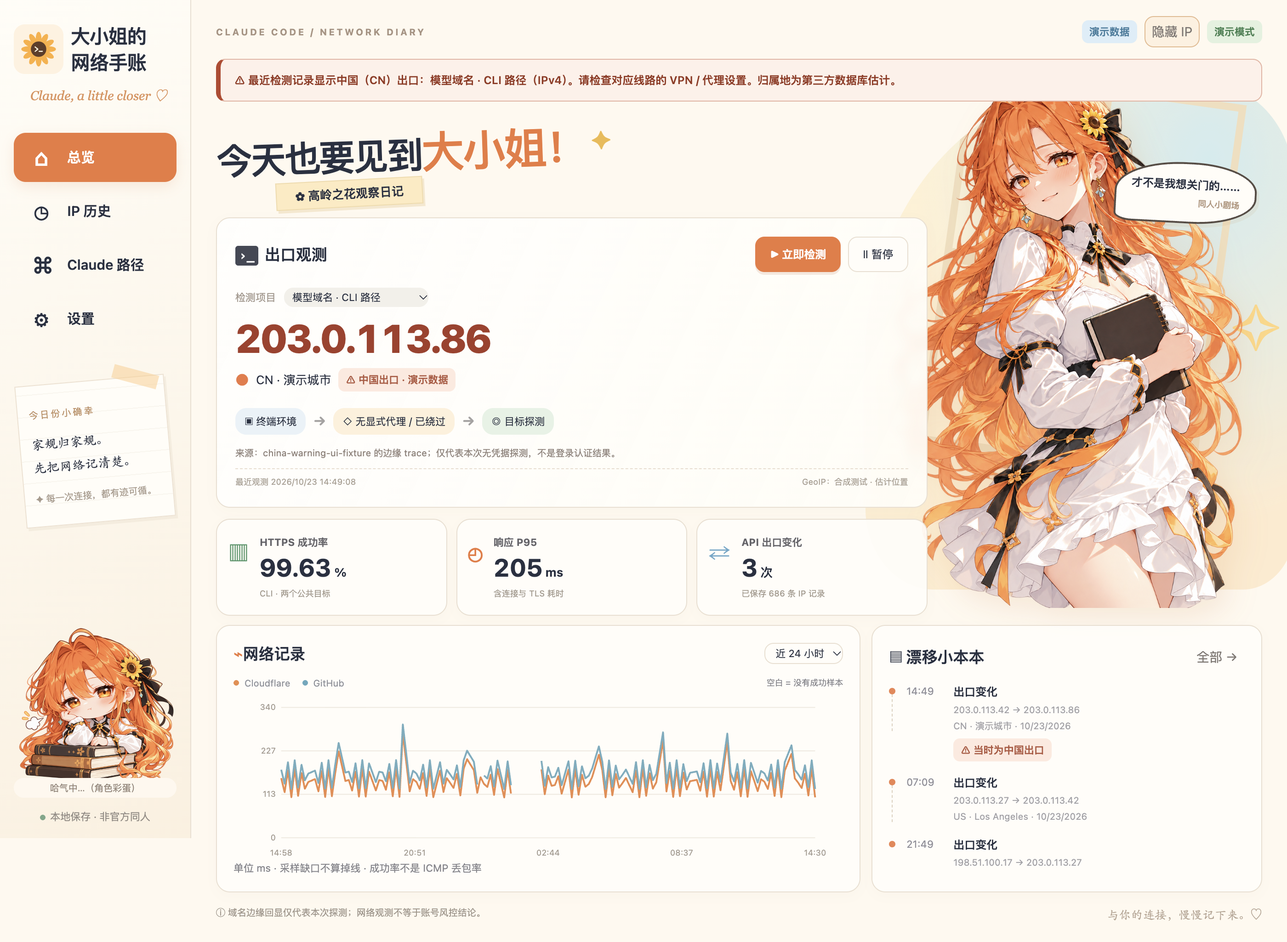
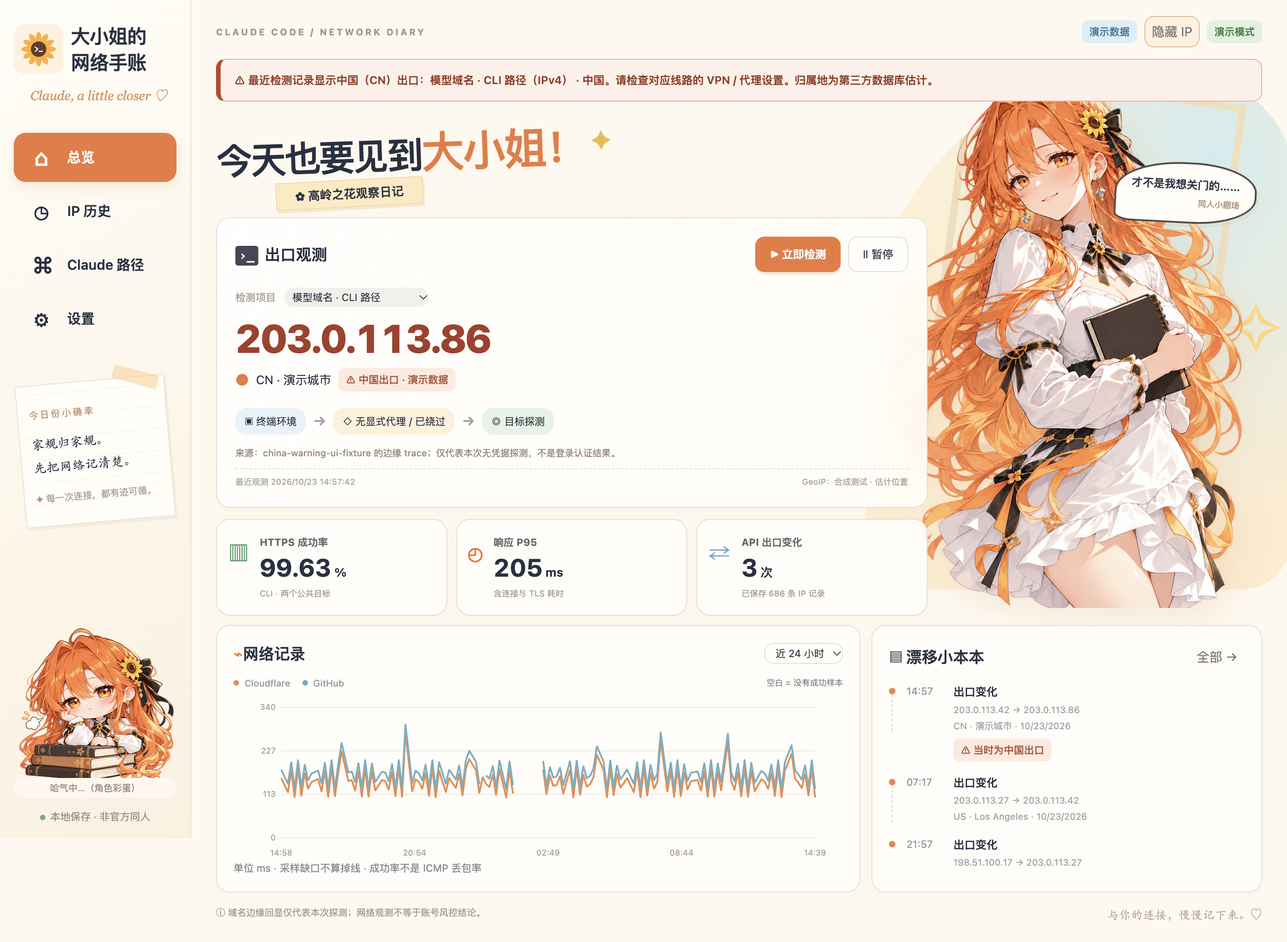
Include Hong Kong egress in region warnings

Changed region(s): [[0.2175, 0.7805, 0.6214, 0.8429], [0.435, 0.0624, 0.7146, 0.0937]]

diff --git a/docs/设计与验证.html b/docs/设计与验证.html
@@ -1,1 +1,1 @@
-<!doctype html><html lang="zh-CN"><meta charset="utf-8"><title>大小姐的网络手账 · 设计与验证</title><style>body{max-width:1000px;margin:60px auto;background:#f7f3ec;color:#332b26;font:16px/1.8 system-ui}article{background:#fffaf3;padding:28px;border:1px solid #dfd6ca;border-radius:18px;margin:24px 0}img{width:100%}code{background:#efe6db;padding:3px 6px}a{color:#a3523a}</style><h1>大小姐的网络手账</h1><p>原创二次元大小姐主题 · Claude Code 网络路径观察 · 独立非官方应用</p><article id="design"><h2>设计基线</h2><p>左侧导航与托盘常驻；主区域展示当前出口、稳定性、IP 漂移时间线；右侧原创成年大小姐插画。奶油纸色、陶土橘、深咖文字和低饱和青绿状态色。图表与数据有独立语义和可访问标签。</p><p>CLI 网络环境与系统/浏览器路径分开展示。第三方回显仅说明该探测请求出口；真实认证/模型服务可能按域名走另一线路。401/403 是 HTTP 响应，不等于登录成功或账户可用。</p></article><article id="execution-ledger"><h2>执行台账</h2><p>当前公开版本：<a href="https://github.com/Be1Human/claude-ojousama-network/releases/tag/v0.1.1">v0.1.1</a>，中国出口警告见<a href="#china-egress-warning">NW-03</a>；保留下方各阶段原始记录。</p><p>NW-02 · 负责人：主代理 · 阶段完成 · 2026-10-23T22:48:49+08:00。V2二次元界面已实现，v0.1.0已公开发布；Mac本机已安装并继续采样，旧数据保留。验收范围：21项逻辑/网络测试、三平台源应用与打包后界面测试、本机历史迁移与采样。实体Windows、真实重启/休眠及多日稳定性尚未验收。</p></article><article><h2>视觉方案修订</h2><p>  NW-02 视觉修订（北京时间 2026-10-23T20:43:33+08:00）：用户认为初版过于正经且文案用梗不准，要求再生成明显二次元风格并先搜索社区。已检索LINUX DO原帖、B站作者/二创条目和贴吧话题；把橙发、温柔聪明、有距离感、严格原生家庭及哈气作为同人语境，不将社区猜测当作真实封号政策。V2采用橙发白裙的原创成年角色、赛璐璐动画立绘、漫画气泡、少量表情贴纸，真实测量与同人文案明确分开。保留V1为历史方案。来源：https://linux.do/t/topic/3010391 、https://linux.do/t/topic/2990653 、https://www.bilibili.com/video/BV1wtaH6jEk8/ 。 </p><p>初版：<a href="assets/concept.png">方案一</a>；V2进一步突出动画线稿/赛璐璐、橙发白裙与漫画表情。不复用第三方作者插画。</p></article><article id="implementation"><h2>NW-02 实现与验证 · 2026-10-23T21:16:27+08:00</h2><p>负责人：主代理。状态：进行中；macOS 本机实现和源应用验证阶段完成，公开发布与跨平台 CI 待验证。</p><p>技术栈：Electron 45 / Node 24 / 内置 SQLite；独立 utilityProcess，托盘单实例、关闭隐藏、可选启动项；无 Python 依赖。5 类观测路径、IP/GeoIP 历史、两目标 HTTPS 曲线、CSV、私有代理加密与终端环境白名单采集。</p><p>图稿顺序：<a href="assets/concept.png">V1 原方案</a> → <a href="assets/concept-v2.png">V2 二次元修订</a> → 下方真实应用演示截图。截图均仅含 RFC 5737 演示 IP，不是实测网络证明。</p><img src="assets/application-demo-v0.1.0.png" alt="本轮 Electron 实际窗口，全部为演示数据"><p>验证：<code>npm test</code> 核心逻辑；<code>npm run test:ui</code> Electron 导航、筛选、IP 隐藏、设置、暂停/继续、关闭到托盘与恢复已通过；<code>npm run test:live</code> 只保留脱敏结论：IPv4/认证和 API 域名 trace 成功、IPv6 DNS 失败按失败记录、GeoJS 回退成功、SQLite integrity_check=ok。没有登录或模型调用。</p><p>测试中发现并修复：ESM 顶层等待 app.whenReady 导致启动死锁；改为异步启动函数。代理失败不直连回退、IPv6 规范化、缺少目标的批次不算整条线路掉线。UI 操作在本项目 Electron 窗口内自动化执行，不依赖外部 app 的 AX。</p><p>下一步：公开仓库，macOS Apple Silicon / Intel、Windows x64 CI 构建和打包后 UI 测试，通过后发布。真实重启启动项、整夜运行和物理设备休眠仍不在当前验收范围。</p></article><article><h2>NW-02 首轮 CI 修复</h2><p>负责人主代理，进行中。macOS arm64 源应用/打包后 UI 与构建通过。Windows 首轮失败在测试清理钩子：先删目录再关闭 SQLite，Windows 文件锁返回 EPERM；已调整为先关闭数据库后删除测试临时目录。Mac 安装包发现继承的链接器签名未封装资源，改用明确的 ad-hoc 签名并添加完整性验证；这不等于 Apple 公证。CI 截图改为只上传测试实际生成的文件，避免误用仓库旧截图。</p></article><article><h2>NW-02 三平台回归与小屏修订</h2><p>2026-10-23，主代理，进行中。CI 39960308712 三平台逻辑/源应用/打包后窗口测试与构建全部通过。目视核查 Windows CI 截图时发现短窗口侧栏便签挤压底部头像，已在矮窗口隐藏装饰便签，保留导航、头像与本地存储提示；增加侧栏底部不越界的界面断言，再次构建验证此变更。</p></article><article><h2>NW-02 路径展示复核</h2><p>负责人主代理，进行中。最终复核修正概览流程图：NO_PROXY 命中时明确显示绕过显式代理；系统路由与系统浏览器近似不再沿用“终端环境”标签。新增对应测试，实际探测路由逻辑未改变。最终发布采用此修订并重新构建安装包。</p></article><article><h2>NW-02 Windows 演示初始化超时</h2><p>最终路径标签修订的 CI 39962272929：两种 Mac 架构通过，Windows 21项逻辑测试通过，但源应用等待演示首屏数据超时。此前同平台已有两轮成功。根据 Windows 单条 SQLite 写入耗时，演示种子的逐条事务是可能瓶颈；改为一次事务批量写入，并增加失败截图及只含演示状态的诊断，再复验。真实监测与既有数据未删除。</p></article><article><h2>NW-02 启动握手修正</h2><p>复核 Windows 随机启动超时同时发现一个时序缺口：主进程在 spawn 事件立即发送 init，而 ESM 后台模块可能尚未完成导入与监听注册。改为工作进程注册监听后发送 listening，主进程收到后再初始化；初始化异常明确上报并进入有限重启。批量演示事务与握手一并进入最终构建复验。</p></article><article><h2>NW-02 采样进程单实例</h2><p>启动和自动重启过程增加互斥标记及定时器清理；用户在后台尚未就绪时重复点击立即检测不会创建多个采样进程，旧工作进程消息也不会覆盖新状态。最终构建统一包含该修复。</p></article><article><h2>NW-02 发布准备 · 2026-10-23T22:40:10+08:00</h2><p>主代理，进行中。最终源码 b772882 的 CI 39969610010 三平台全部成功：21项逻辑/网络测试、源应用和打包后界面测试通过。Apple Silicon 首次构建发生依赖下载超时，重试成功；未修改源代码。Mac 本机安装已更新并保留原610条观测，签名完整性通过。因本地大文件下载缓慢，增加手动发布工作流：核对成功构建的来源提交与既有草稿、核对六个安装包和ZIP完整性、生成SHA-256并验证GitHub资产摘要后发布。软件实现不再改动。</p></article><article id="release-v010"><h2>NW-02 v0.1.0 公开交付 · 2026-10-23T22:48:49+08:00</h2><p>主代理，阶段完成；最终应用基准 <code>b772882f1e1ff4aa3cf03ed55cfaa1cb87afc255</code>。<a href="https://github.com/Be1Human/claude-ojousama-network/releases/tag/v0.1.0">公开下载</a>包含 macOS Apple Silicon / Intel 的DMG和ZIP、Windows x64的EXE与ZIP，共六个安装文件及SHA256SUMS.txt。<a href="https://github.com/Be1Human/claude-ojousama-network/actions/runs/39969610010">三平台构建与测试</a>和<a href="https://github.com/Be1Human/claude-ojousama-network/actions/runs/39972177947">发布校验</a>均成功。公开发布网页可读取；另通过CLI下载校验文件，与GitHub七个资产摘要逐项匹配。本地匿名API请求遇到TLS/403，未冒充成功，改以公开网页与授权API核验。</p><p>实际验证：每个平台21项逻辑/代理/数据库测试；源Electron与打包后UI检查包括导航、隐藏IP、历史筛选、设置、暂停恢复、关闭托盘和重新显示。Mac本机签名深度严格校验通过，更新后历史保留并继续增长。旧数据库只读导入，原文件保留。真实观测未上传；下方截图均为最终包运行的合成演示。</p><p><a href="assets/application-demo-v0.1.0.png">Mac Apple Silicon实际演示窗口</a> · <a href="assets/mac-intel-demo.png">Mac Intel CI实际窗口</a> · <a href="assets/windows-demo.png">Windows CI实际窗口</a></p><img src="assets/windows-demo.png" alt="Windows x64最终打包应用的CI实窗，全部为演示数据"><p>发布修复记录：六个文件首次已上传，但未发布草稿尚无公开tag，按tag调用REST校验返回404；改为从授权可见的发布列表定位草稿，再核对文件摘要后发布，第二轮成功。文档预览起初缺少Playwright独立Chromium，随后使用项目已含Electron预览；1280px窗口无横向溢出、图片加载与控制台检查通过。相对文件链接和锚点检查通过。</p><p>复现：<code>npm ci &amp;&amp; npm test &amp;&amp; npm run test:ui</code>；CI执行构建后设置<code>OJOU_EXECUTABLE</code>再跑同一UI检查。网络实测为<code>npm run test:live</code>（主动请求公开服务，不输出原始IP）。<a href="../.github/workflows/build.yml">构建流程</a> · <a href="../.github/workflows/release.yml">发布流程</a> · <a href="../scripts/ui-smoke.js">窗口验证源文件</a>。</p><p>限制：域名边缘trace不等于真实登录/模型后端的审计IP；浏览器路径是系统Chromium会话近似。Mac仅ad-hoc签名未Apple公证、Windows无商业签名；重启自启、实体Windows和真实休眠、多日稳定性待后续实际使用验证。默认自启与通知关闭，后台轮次结束后间隔30秒。下一步：用户在运行Claude Code的同一终端执行界面复制的网络环境采集命令，再选择实际项目设置；不读取登录凭据。</p></article><article id="china-egress-warning"><h2>NW-03 中国出口警告 · v0.1.1已交付</h2><p>NW-03 中国出口警告（北京时间2026-10-24T05:43:42+08:00）：负责人主代理，进行中。用户要求出口归属中国时增加警告。以成功观测的GeoIP国家代码CN为主，缺少国家代码时兼容China/中国等明确名称；未知归属不猜测，HK/TW等其他代码不当作CN。概览提示具体检测项目及地址版本，选中出口和Claude路径卡片加醒目标识，历史记录加当时中国出口标记；过期记录明确过期，探测失败不冒充当前中国出口。依据同一任务上下文，将“路径/来源”改为“检测项目/查询网站”，说明显示的是本机出口。仅作线路提醒，不修改代理/VPN、不推断账号封禁结果。计划v0.1.1，验证合成CN/非CN/未知/过期及切换行为，构建并替换本机安装，保留历史；三平台构建通过后发布更新。</p><p>NW-03 本机实现与源窗口验证（北京时间2026-10-24T05:48:09+08:00）：负责人主代理，进行中。已完成CN/明确中国名称识别、顶部线路提示、红色出口与卡片、历史及时间线标记；隐藏IP不隐藏警告，顶部无原始IP，样式层级确保警告不被角色插画遮挡。21项既有逻辑/代理/存储检查通过；Electron源窗口通过新增CN、非CN代码优先、未知、失败、过期、项目切换和历史提醒验证；补充IPv6独立出口提示的集成验证。版本0.1.1，待打包后验证、本机安装、三平台CI和发布。截图是本轮真实Electron窗口的合成演示数据。</p><img src="assets/china-warning-demo.png" alt="本轮Electron实窗：中国出口警告，全部为文档示例IP与合成归属地"><p>NW-03 本机安装与跨平台验证（北京时间2026-10-24T05:52:05+08:00）：负责人主代理，进行中；应用源码基准ddb954c615bbe61987f24ab0486fbdace32dcb55。中国出口红色提醒和表头改名已实装到Mac0.1.1，包内窗口测试与ad-hoc深度严格签名校验通过。升级前3241条观测按所有字段的有序SHA-256逐条校验保留，升级后3253条且继续采样，数据库完整性ok；旧应用与数据库已在私有目录备份。CI40029382275三平台21项逻辑测试和源/打包后窗口验证全部成功，覆盖CN、非CN代码优先、未知、失败、过期、IPv6、隐藏IP、切换检测项目和历史标记；所有公开截图与测试使用合成文档示例地址。v0.1.1草稿已建，正在调用既有发布流程核对六个安装包及摘要。未改变VPN、系统代理、ChatGPT一次性关闭任务或游戏代码。</p><p>NW-03 v0.1.1交付（北京时间2026-10-24T05:54:03+08:00）：主代理，阶段完成（软件实现、三平台自动化、Mac本机升级与公开发布）。应用源码ddb954c615bbe61987f24ab0486fbdace32dcb55，升级前3241条观测所有字段的有序摘要匹配、数据完整性通过，升级后继续采样。六个安装文件与校验文件已发布，七个GitHub资产SHA-256与下载校验清单逐项匹配。Mac双架构/Windows的21项逻辑检查与源/打包后UI检查通过，包括CN提示、非CN/未知/失败排除、过期状态、IPv6、隐藏IP、切换检测项目、历史标记；Windows截图已目视复核。</p><p><a href="https://github.com/Be1Human/claude-ojousama-network/releases/tag/v0.1.1">v0.1.1下载与校验文件</a> · <a href="https://github.com/Be1Human/claude-ojousama-network/actions/runs/40029382275">三平台验证</a> · <a href="https://github.com/Be1Human/claude-ojousama-network/actions/runs/40029816641">发布摘要验证</a> · <a href="../src/renderer/app.js">警告实现</a> · <a href="../scripts/ui-smoke.js">UI集成验证</a></p><p>下图为本轮Windows最终安装包的CI实窗；全部为合成演示地址与归属地，非真实中国出口证据。v0.1.0历史图已冻结保留，不覆盖其来源。</p><img src="assets/china-warning-windows-demo.png" alt="本轮Windows打包应用实窗：中国出口警告，全部为合成演示数据"><p>验证复现：<code>npm test</code>与<code>npm run test:ui</code>；打包后设置<code>OJOU_EXECUTABLE</code>再执行同一窗口检查。验收边界仍为GeoIP估计和无凭据边缘探测；未修改VPN、代理、系统时区、ChatGPT关闭任务。实体Windows、真实重启/休眠、长期稳定性不在本轮验收范围。未遇到新构建或测试失败。后续为实际使用观察。</p></article></html>
+<!doctype html><html lang="zh-CN"><meta charset="utf-8"><title>大小姐的网络手账 · 设计与验证</title><style>body{max-width:1000px;margin:60px auto;background:#f7f3ec;color:#332b26;font:16px/1.8 system-ui}article{background:#fffaf3;padding:28px;border:1px solid #dfd6ca;border-radius:18px;margin:24px 0}img{width:100%}code{background:#efe6db;padding:3px 6px}a{color:#a3523a}</style><h1>大小姐的网络手账</h1><p>原创二次元大小姐主题 · Claude Code 网络路径观察 · 独立非官方应用</p><article id="design"><h2>设计基线</h2><p>左侧导航与托盘常驻；主区域展示当前出口、稳定性、IP 漂移时间线；右侧原创成年大小姐插画。奶油纸色、陶土橘、深咖文字和低饱和青绿状态色。图表与数据有独立语义和可访问标签。</p><p>CLI 网络环境与系统/浏览器路径分开展示。第三方回显仅说明该探测请求出口；真实认证/模型服务可能按域名走另一线路。401/403 是 HTTP 响应，不等于登录成功或账户可用。</p></article><article id="execution-ledger"><h2>执行台账</h2><p>当前公开版本：<a href="https://github.com/Be1Human/claude-ojousama-network/releases/tag/v0.1.1">v0.1.1</a>，中国出口警告见<a href="#china-egress-warning">NW-03</a>；保留下方各阶段原始记录。</p><p>NW-02 · 负责人：主代理 · 阶段完成 · 2026-10-23T22:48:49+08:00。V2二次元界面已实现，v0.1.0已公开发布；Mac本机已安装并继续采样，旧数据保留。验收范围：21项逻辑/网络测试、三平台源应用与打包后界面测试、本机历史迁移与采样。实体Windows、真实重启/休眠及多日稳定性尚未验收。</p></article><article><h2>视觉方案修订</h2><p>  NW-02 视觉修订（北京时间 2026-10-23T20:43:33+08:00）：用户认为初版过于正经且文案用梗不准，要求再生成明显二次元风格并先搜索社区。已检索LINUX DO原帖、B站作者/二创条目和贴吧话题；把橙发、温柔聪明、有距离感、严格原生家庭及哈气作为同人语境，不将社区猜测当作真实封号政策。V2采用橙发白裙的原创成年角色、赛璐璐动画立绘、漫画气泡、少量表情贴纸，真实测量与同人文案明确分开。保留V1为历史方案。来源：https://linux.do/t/topic/3010391 、https://linux.do/t/topic/2990653 、https://www.bilibili.com/video/BV1wtaH6jEk8/ 。 </p><p>初版：<a href="assets/concept.png">方案一</a>；V2进一步突出动画线稿/赛璐璐、橙发白裙与漫画表情。不复用第三方作者插画。</p></article><article id="implementation"><h2>NW-02 实现与验证 · 2026-10-23T21:16:27+08:00</h2><p>负责人：主代理。状态：进行中；macOS 本机实现和源应用验证阶段完成，公开发布与跨平台 CI 待验证。</p><p>技术栈：Electron 45 / Node 24 / 内置 SQLite；独立 utilityProcess，托盘单实例、关闭隐藏、可选启动项；无 Python 依赖。5 类观测路径、IP/GeoIP 历史、两目标 HTTPS 曲线、CSV、私有代理加密与终端环境白名单采集。</p><p>图稿顺序：<a href="assets/concept.png">V1 原方案</a> → <a href="assets/concept-v2.png">V2 二次元修订</a> → 下方真实应用演示截图。截图均仅含 RFC 5737 演示 IP，不是实测网络证明。</p><img src="assets/application-demo-v0.1.0.png" alt="本轮 Electron 实际窗口，全部为演示数据"><p>验证：<code>npm test</code> 核心逻辑；<code>npm run test:ui</code> Electron 导航、筛选、IP 隐藏、设置、暂停/继续、关闭到托盘与恢复已通过；<code>npm run test:live</code> 只保留脱敏结论：IPv4/认证和 API 域名 trace 成功、IPv6 DNS 失败按失败记录、GeoJS 回退成功、SQLite integrity_check=ok。没有登录或模型调用。</p><p>测试中发现并修复：ESM 顶层等待 app.whenReady 导致启动死锁；改为异步启动函数。代理失败不直连回退、IPv6 规范化、缺少目标的批次不算整条线路掉线。UI 操作在本项目 Electron 窗口内自动化执行，不依赖外部 app 的 AX。</p><p>下一步：公开仓库，macOS Apple Silicon / Intel、Windows x64 CI 构建和打包后 UI 测试，通过后发布。真实重启启动项、整夜运行和物理设备休眠仍不在当前验收范围。</p></article><article><h2>NW-02 首轮 CI 修复</h2><p>负责人主代理，进行中。macOS arm64 源应用/打包后 UI 与构建通过。Windows 首轮失败在测试清理钩子：先删目录再关闭 SQLite，Windows 文件锁返回 EPERM；已调整为先关闭数据库后删除测试临时目录。Mac 安装包发现继承的链接器签名未封装资源，改用明确的 ad-hoc 签名并添加完整性验证；这不等于 Apple 公证。CI 截图改为只上传测试实际生成的文件，避免误用仓库旧截图。</p></article><article><h2>NW-02 三平台回归与小屏修订</h2><p>2026-10-23，主代理，进行中。CI 39960308712 三平台逻辑/源应用/打包后窗口测试与构建全部通过。目视核查 Windows CI 截图时发现短窗口侧栏便签挤压底部头像，已在矮窗口隐藏装饰便签，保留导航、头像与本地存储提示；增加侧栏底部不越界的界面断言，再次构建验证此变更。</p></article><article><h2>NW-02 路径展示复核</h2><p>负责人主代理，进行中。最终复核修正概览流程图：NO_PROXY 命中时明确显示绕过显式代理；系统路由与系统浏览器近似不再沿用“终端环境”标签。新增对应测试，实际探测路由逻辑未改变。最终发布采用此修订并重新构建安装包。</p></article><article><h2>NW-02 Windows 演示初始化超时</h2><p>最终路径标签修订的 CI 39962272929：两种 Mac 架构通过，Windows 21项逻辑测试通过，但源应用等待演示首屏数据超时。此前同平台已有两轮成功。根据 Windows 单条 SQLite 写入耗时，演示种子的逐条事务是可能瓶颈；改为一次事务批量写入，并增加失败截图及只含演示状态的诊断，再复验。真实监测与既有数据未删除。</p></article><article><h2>NW-02 启动握手修正</h2><p>复核 Windows 随机启动超时同时发现一个时序缺口：主进程在 spawn 事件立即发送 init，而 ESM 后台模块可能尚未完成导入与监听注册。改为工作进程注册监听后发送 listening，主进程收到后再初始化；初始化异常明确上报并进入有限重启。批量演示事务与握手一并进入最终构建复验。</p></article><article><h2>NW-02 采样进程单实例</h2><p>启动和自动重启过程增加互斥标记及定时器清理；用户在后台尚未就绪时重复点击立即检测不会创建多个采样进程，旧工作进程消息也不会覆盖新状态。最终构建统一包含该修复。</p></article><article><h2>NW-02 发布准备 · 2026-10-23T22:40:10+08:00</h2><p>主代理，进行中。最终源码 b772882 的 CI 39969610010 三平台全部成功：21项逻辑/网络测试、源应用和打包后界面测试通过。Apple Silicon 首次构建发生依赖下载超时，重试成功；未修改源代码。Mac 本机安装已更新并保留原610条观测，签名完整性通过。因本地大文件下载缓慢，增加手动发布工作流：核对成功构建的来源提交与既有草稿、核对六个安装包和ZIP完整性、生成SHA-256并验证GitHub资产摘要后发布。软件实现不再改动。</p></article><article id="release-v010"><h2>NW-02 v0.1.0 公开交付 · 2026-10-23T22:48:49+08:00</h2><p>主代理，阶段完成；最终应用基准 <code>b772882f1e1ff4aa3cf03ed55cfaa1cb87afc255</code>。<a href="https://github.com/Be1Human/claude-ojousama-network/releases/tag/v0.1.0">公开下载</a>包含 macOS Apple Silicon / Intel 的DMG和ZIP、Windows x64的EXE与ZIP，共六个安装文件及SHA256SUMS.txt。<a href="https://github.com/Be1Human/claude-ojousama-network/actions/runs/39969610010">三平台构建与测试</a>和<a href="https://github.com/Be1Human/claude-ojousama-network/actions/runs/39972177947">发布校验</a>均成功。公开发布网页可读取；另通过CLI下载校验文件，与GitHub七个资产摘要逐项匹配。本地匿名API请求遇到TLS/403，未冒充成功，改以公开网页与授权API核验。</p><p>实际验证：每个平台21项逻辑/代理/数据库测试；源Electron与打包后UI检查包括导航、隐藏IP、历史筛选、设置、暂停恢复、关闭托盘和重新显示。Mac本机签名深度严格校验通过，更新后历史保留并继续增长。旧数据库只读导入，原文件保留。真实观测未上传；下方截图均为最终包运行的合成演示。</p><p><a href="assets/application-demo-v0.1.0.png">Mac Apple Silicon实际演示窗口</a> · <a href="assets/mac-intel-demo.png">Mac Intel CI实际窗口</a> · <a href="assets/windows-demo.png">Windows CI实际窗口</a></p><img src="assets/windows-demo.png" alt="Windows x64最终打包应用的CI实窗，全部为演示数据"><p>发布修复记录：六个文件首次已上传，但未发布草稿尚无公开tag，按tag调用REST校验返回404；改为从授权可见的发布列表定位草稿，再核对文件摘要后发布，第二轮成功。文档预览起初缺少Playwright独立Chromium，随后使用项目已含Electron预览；1280px窗口无横向溢出、图片加载与控制台检查通过。相对文件链接和锚点检查通过。</p><p>复现：<code>npm ci &amp;&amp; npm test &amp;&amp; npm run test:ui</code>；CI执行构建后设置<code>OJOU_EXECUTABLE</code>再跑同一UI检查。网络实测为<code>npm run test:live</code>（主动请求公开服务，不输出原始IP）。<a href="../.github/workflows/build.yml">构建流程</a> · <a href="../.github/workflows/release.yml">发布流程</a> · <a href="../scripts/ui-smoke.js">窗口验证源文件</a>。</p><p>限制：域名边缘trace不等于真实登录/模型后端的审计IP；浏览器路径是系统Chromium会话近似。Mac仅ad-hoc签名未Apple公证、Windows无商业签名；重启自启、实体Windows和真实休眠、多日稳定性待后续实际使用验证。默认自启与通知关闭，后台轮次结束后间隔30秒。下一步：用户在运行Claude Code的同一终端执行界面复制的网络环境采集命令，再选择实际项目设置；不读取登录凭据。</p></article><article id="china-egress-warning"><h2>NW-03 中国出口警告 · v0.1.1已交付</h2><p>NW-03 中国出口警告（北京时间2026-10-24T05:43:42+08:00）：负责人主代理，进行中。用户要求出口归属中国时增加警告。以成功观测的GeoIP国家代码CN为主，缺少国家代码时兼容China/中国等明确名称；未知归属不猜测，HK/TW等其他代码不当作CN。概览提示具体检测项目及地址版本，选中出口和Claude路径卡片加醒目标识，历史记录加当时中国出口标记；过期记录明确过期，探测失败不冒充当前中国出口。依据同一任务上下文，将“路径/来源”改为“检测项目/查询网站”，说明显示的是本机出口。仅作线路提醒，不修改代理/VPN、不推断账号封禁结果。计划v0.1.1，验证合成CN/非CN/未知/过期及切换行为，构建并替换本机安装，保留历史；三平台构建通过后发布更新。</p><p>NW-03 本机实现与源窗口验证（北京时间2026-10-24T05:48:09+08:00）：负责人主代理，进行中。已完成CN/明确中国名称识别、顶部线路提示、红色出口与卡片、历史及时间线标记；隐藏IP不隐藏警告，顶部无原始IP，样式层级确保警告不被角色插画遮挡。21项既有逻辑/代理/存储检查通过；Electron源窗口通过新增CN、非CN代码优先、未知、失败、过期、项目切换和历史提醒验证；补充IPv6独立出口提示的集成验证。版本0.1.1，待打包后验证、本机安装、三平台CI和发布。截图是本轮真实Electron窗口的合成演示数据。</p><img src="assets/china-warning-demo-v0.1.1.png" alt="本轮Electron实窗：中国出口警告，全部为文档示例IP与合成归属地"><p>NW-03 本机安装与跨平台验证（北京时间2026-10-24T05:52:05+08:00）：负责人主代理，进行中；应用源码基准ddb954c615bbe61987f24ab0486fbdace32dcb55。中国出口红色提醒和表头改名已实装到Mac0.1.1，包内窗口测试与ad-hoc深度严格签名校验通过。升级前3241条观测按所有字段的有序SHA-256逐条校验保留，升级后3253条且继续采样，数据库完整性ok；旧应用与数据库已在私有目录备份。CI40029382275三平台21项逻辑测试和源/打包后窗口验证全部成功，覆盖CN、非CN代码优先、未知、失败、过期、IPv6、隐藏IP、切换检测项目和历史标记；所有公开截图与测试使用合成文档示例地址。v0.1.1草稿已建，正在调用既有发布流程核对六个安装包及摘要。未改变VPN、系统代理、ChatGPT一次性关闭任务或游戏代码。</p><p>NW-03 v0.1.1交付（北京时间2026-10-24T05:54:03+08:00）：主代理，阶段完成（软件实现、三平台自动化、Mac本机升级与公开发布）。应用源码ddb954c615bbe61987f24ab0486fbdace32dcb55，升级前3241条观测所有字段的有序摘要匹配、数据完整性通过，升级后继续采样。六个安装文件与校验文件已发布，七个GitHub资产SHA-256与下载校验清单逐项匹配。Mac双架构/Windows的21项逻辑检查与源/打包后UI检查通过，包括CN提示、非CN/未知/失败排除、过期状态、IPv6、隐藏IP、切换检测项目、历史标记；Windows截图已目视复核。</p><p><a href="https://github.com/Be1Human/claude-ojousama-network/releases/tag/v0.1.1">v0.1.1下载与校验文件</a> · <a href="https://github.com/Be1Human/claude-ojousama-network/actions/runs/40029382275">三平台验证</a> · <a href="https://github.com/Be1Human/claude-ojousama-network/actions/runs/40029816641">发布摘要验证</a> · <a href="../src/renderer/app.js">警告实现</a> · <a href="../scripts/ui-smoke.js">UI集成验证</a></p><p>下图为本轮Windows最终安装包的CI实窗；全部为合成演示地址与归属地，非真实中国出口证据。v0.1.0历史图已冻结保留，不覆盖其来源。</p><img src="assets/china-warning-windows-demo.png" alt="本轮Windows打包应用实窗：中国出口警告，全部为合成演示数据"><p>验证复现：<code>npm test</code>与<code>npm run test:ui</code>；打包后设置<code>OJOU_EXECUTABLE</code>再执行同一窗口检查。验收边界仍为GeoIP估计和无凭据边缘探测；未修改VPN、代理、系统时区、ChatGPT关闭任务。实体Windows、真实重启/休眠、长期稳定性不在本轮验收范围。未遇到新构建或测试失败。后续为实际使用观察。</p></article><article id="cn-hk-warning"><h2>NW-04 中国与中国香港出口警告</h2><p>NW-04 中国与中国香港出口警告（北京时间2026-10-24T05:57:03+08:00）：负责人主代理，进行中。用户将警告范围明确为中国（CN）或中国香港（HK），本要求取代NW-03此前将HK排除的规则，保留原阶段记录。两者分别显示“中国出口”“中国香港出口”；国家/地区代码优先，代码缺失时兼容明确的China/中国和Hong Kong/香港等名称；其他地区及未知不推断为CN/HK。沿用具体检测项目、IPv4/IPv6、隐藏IP、历史与过期提示。计划0.1.2，先验证源窗口和打包后窗口，保留全部本机历史后安装，三平台CI通过后发布新版本。</p><p>NW-04 本机实现与源窗口验证（北京时间2026-10-24T05:58:26+08:00）：负责人主代理，进行中。已按CN/HK分别生成中国/中国香港标签，国家地区代码优先，兼容Hong Kong、Hong Kong SAR, China、香港及特别行政区名称；保留未知/失败/过期边界。21项逻辑测试及Electron源窗口通过；集成检查验证HK的概览、卡片、历史、IPv6和过期/失败表现，以及其他地区不误报。下图为本轮Electron实窗，所有IP与归属地为合成演示数据。下一步打包后验证、本机安装与三平台发布。</p><img src="assets/hong-kong-warning-demo.png" alt="本轮Electron实窗：中国香港出口警告，全部为合成演示数据"></article></html>

diff --git a/src/renderer/app.js b/src/renderer/app.js
@@ -6,15 +6,19 @@ const clock=t=>new Date(t).toLocaleTimeString('zh-CN',{hour:'2-digit',minute:'2-
 const address=ip=>ip?(hiddenIP?(ip.includes(':')?'••••:••••:••••':'•••.•••.•••.•••'):ip):'未获得有效 IP';
 function latest(route){return state?.current.filter(r=>r.route===route&&(!route.endsWith('/echo')||r.family===4)).sort((a,b)=>b.time-a.time||b.id-a.id)[0];}
 function geo(g={}){return [g.countryCode||g.country,g.city].filter(Boolean).join(' · ')||'归属地暂不可用';}
-function isChina(g){
-  if(!g||typeof g!=='object')return false;
+const warningRegions={CN:'中国',HK:'中国香港'};
+function warningCountry(g){
+  if(!g||typeof g!=='object')return '';
   const code=String(g.countryCode||g.country_code||'').trim().toUpperCase();
-  if(code)return code==='CN';
-  return /^(?:CN|China|People['’]?s Republic of China|中国|中华人民共和国|中国大陆|中国内地)$/i.test(String(g.country||'').trim());
+  if(code)return Object.hasOwn(warningRegions,code)?code:'';
+  const name=String(g.country||'').trim().replace(/\s+/g,' ');
+  if(/^(?:CN|China|People['’]?s Republic of China|中国|中华人民共和国|中国大陆|中国内地)$/i.test(name))return 'CN';
+  if(/^(?:HK|Hong Kong(?: S\.?A\.?R\.?)?(?:[, ]+China)?|(?:中国|中华人民共和国)?香港(?:特别行政区)?)$/i.test(name))return 'HK';
+  return '';
 }
-function chinaRecord(r){return r?.status==='ok'&&!!r.ip&&isChina(r.geo);}
+function warningRegion(r){return r?.status==='ok'&&r.ip?warningCountry(r.geo):'';}
 function staleRecord(r){return !!r&&Date.now()-r.time>Math.max((config?.interval||30)*3500,120000);}
-function chinaHistoryBadge(r){return chinaRecord(r)?'<span class="badge bad country-badge" data-country-warning="CN">⚠ 当时为中国出口</span>':'';}
+function regionHistoryBadge(r){const code=warningRegion(r);return code?`<span class="badge bad country-badge" data-country-warning="${code}">⚠ 当时为${warningRegions[code]}出口</span>`:'';}
 function toast(s){$('toast').textContent=s;$('toast').classList.remove('hidden');clearTimeout(toast.timer);toast.timer=setTimeout(()=>$('toast').classList.add('hidden'),5000);}
 async function act(fn){try{return await fn();}catch(e){toast(String(e.message).replace(/^Error invoking remote method '[^']+': Error: /,''));return null;}}
 function navigate(page){currentPage=page;document.querySelectorAll('.page').forEach(el=>el.classList.toggle('active',el.id===page));document.querySelectorAll('.nav').forEach(el=>el.classList.toggle('active',el.dataset.page===page));if(page==='history')loadHistory();}
@@ -31,30 +35,31 @@ function render(){
   }
   if(!state)return;
   const s=state.status||{};const paused=config?.paused??s.paused;
-  const chinaRoutes=state.current.filter(r=>!r.route.startsWith('legacy/')&&chinaRecord(r)&&!staleRecord(r));
-  const chinaLabels=[...new Set(chinaRoutes.map(r=>`${r.label}${r.family?`（IPv${r.family}）`:''}`))];
-  $('country-alert').textContent=chinaLabels.length?`⚠ 最近检测记录显示中国（CN）出口：${chinaLabels.join('、')}。请检查对应线路的 VPN / 代理设置。归属地为第三方数据库估计。`:'';
-  $('country-alert').classList.toggle('hidden',!chinaLabels.length);
+  const warningRoutes=state.current.filter(r=>!r.route.startsWith('legacy/')&&warningRegion(r)&&!staleRecord(r));
+  const regionNames=[...new Set(warningRoutes.map(r=>`${warningRegions[warningRegion(r)]}（${warningRegion(r)}）`))];
+  const warningLabels=[...new Set(warningRoutes.map(r=>`${r.label}${r.family?`（IPv${r.family}）`:''} · ${warningRegions[warningRegion(r)]}`))];
+  $('country-alert').textContent=warningLabels.length?`⚠ 最近检测记录显示${regionNames.join(' / ')}出口：${warningLabels.join('、')}。请检查对应线路的 VPN / 代理设置。归属地为第三方数据库估计。`:'';
+  $('country-alert').classList.toggle('hidden',!warningLabels.length);
   $('runtime').textContent=s.demo?'演示模式':paused?'已暂停':s.suspended?'已休眠':s.busy?'检测中…':'后台观测中';$('runtime').className='badge '+(paused?'wait':'good');
   $('pause').textContent=paused?'▶ 继续':'Ⅱ 暂停';$('sample').disabled=!!s.busy;
   const selectedRoute=$('hero-route').value;
   const targetKey=selectedRoute.split('/')[1],effective=config?.profile?.targetRoutes?.[targetKey];
   $('flow-origin').textContent=selectedRoute.startsWith('browser/')?'▣ 独立浏览器':selectedRoute.startsWith('system/')?'▣ 系统网络':'▣ 终端环境';
   $('proxy-chip').textContent=selectedRoute.startsWith('browser/')?'◇ 系统自动代理':selectedRoute.startsWith('system/')?'◇ OS 路由 / TUN':effective==='invalid'?'⚠ 配置无效':effective==='proxy'?'◇ 显式代理':'◇ 无显式代理 / 已绕过';
-  const r=latest(selectedRoute),ok=r?.status==='ok',china=chinaRecord(r);
+  const r=latest(selectedRoute),ok=r?.status==='ok',region=warningRegion(r);
   $('hero-ip').textContent=r?address(r.ip):'等待首次观测';$('hero-ip').classList.toggle('long',!r?.ip||r.ip.includes(':'));
-  $('hero-ip').classList.toggle('china-ip',china);
+  $('hero-ip').classList.toggle('china-ip',!!region);
   $('hero-location').textContent=ok?geo(r.geo):(r?.error||'开始记录后，这里会显示出口信息');
   const stale=staleRecord(r);
-  $('hero-status').textContent=china?(stale?'⚠ 中国出口 · 记录已过期':s.demo?'⚠ 中国出口 · 演示数据':'⚠ 中国出口'):s.demo?'演示数据':!r?'等待数据':stale?'记录已过期':ok?'已获得回显':'探测未成功';$('hero-status').className='badge '+(china?'bad':ok&&!stale?'good':'wait');
+  $('hero-status').textContent=region?`⚠ ${warningRegions[region]}出口${stale?' · 记录已过期':s.demo?' · 演示数据':''}`:s.demo?'演示数据':!r?'等待数据':stale?'记录已过期':ok?'已获得回显':'探测未成功';$('hero-status').className='badge '+(region?'bad':ok&&!stale?'good':'wait');
   $('hero-evidence').textContent=r?.evidence?.includes('edge-trace')?'来源：'+r.source+' 的边缘 trace；仅代表本次无凭据探测，不是登录认证结果。':'第三方 IP 回显只代表该探测请求；按域名分流时可能与 Claude 不同。';
   $('last-seen').textContent='最近观测 '+(r?time(r.time):'—');$('geo-source').textContent='GeoIP：'+(r?.geo?.source||'未取得')+' · 估计位置';
   const stat=state.summaries.find(r=>r.route==='cli');$('rate').innerHTML=stat?.rate==null?'—':esc(stat.rate)+'<em>%</em>';$('p95').innerHTML=stat?.p95==null?'—':esc(Math.round(stat.p95))+'<em>ms</em>';$('changes').innerHTML=esc(state.changes)+'<em>次</em>';$('sample-count').textContent=`已保存 ${state.count.toLocaleString()} 条 IP 记录`;
   renderChart();
   const events=state.recent.filter(r=>r.route==='cli/api').slice(0,4);
-  $('timeline').innerHTML=events.length?events.map(r=>`<div class="timeline-item"><i></i><time>${clock(r.time)}</time><div><strong>${r.event==='change'?'出口变化':'开始观测'}</strong><small>${r.previous_ip?esc(address(r.previous_ip))+' → ':''}${esc(address(r.ip))}</small><small>${esc(geo(r.geo))} · ${esc(new Date(r.time).toLocaleDateString())}</small>${chinaHistoryBadge(r)}</div></div>`).join(''):'<div class="empty">还没有 API 出口变化记录。<br>大小姐的小本本，慢慢写。</div>';
+  $('timeline').innerHTML=events.length?events.map(r=>`<div class="timeline-item"><i></i><time>${clock(r.time)}</time><div><strong>${r.event==='change'?'出口变化':'开始观测'}</strong><small>${r.previous_ip?esc(address(r.previous_ip))+' → ':''}${esc(address(r.ip))}</small><small>${esc(geo(r.geo))} · ${esc(new Date(r.time).toLocaleDateString())}</small>${regionHistoryBadge(r)}</div></div>`).join(''):'<div class="empty">还没有 API 出口变化记录。<br>大小姐的小本本，慢慢写。</div>';
   const routes=[['cli/api','01 / 模型接口',(config?.profile?.apiOrigin||'https://api.anthropic.com')+' · CLI 环境','使用 Claude Code 代理变量；同域名边缘回显。'],['cli/auth','02 / 认证域名','claude.ai · CLI 环境','CLI 认证请求的候选路径；不等于外部浏览器。'],['browser/auth','03 / 浏览器登录段','claude.ai · 系统代理近似','独立 Chromium 会话遵循系统代理。外部浏览器扩展和独立代理未覆盖。'],['cli/echo','04 / 第三方回显','IPv4 回显 · CLI 环境','用于对照域名分流。和 Claude 目标出口不一致时应分别查看。'],['system/echo','05 / 系统路由','IPv4 · 含 VPN / TUN','绕过 HTTP 代理不代表绕过系统 VPN 或 TUN。']];
-  $('path-cards').innerHTML=routes.map(([route,label,target,note])=>{const r=latest(route),china=chinaRecord(r),stale=staleRecord(r);return`<article class="card${china?' china-path':''}"><small>${esc(label)}</small><h3>${esc(target)}</h3><div class="path-ip${china?' china-ip':''}">${esc(r?address(r.ip):'等待观测')}</div><span class="badge ${china?'bad':r?.status==='ok'&&!stale?'good':'wait'}">${esc(r?.status==='ok'?geo(r.geo):(r?.error||'未采样'))}</span>${china?`<p class="country-note" data-country-warning="CN">⚠ ${stale?'上次为中国出口，记录已过期，请重新检测。':'中国出口，请检查这条线路。'}</p>`:stale?'<p>记录已过期，请重新检测。</p>':''}<p>${esc(note)}</p><p>${r?esc(time(r.time)):'—'}</p></article>`;}).join('');
+  $('path-cards').innerHTML=routes.map(([route,label,target,note])=>{const r=latest(route),china=warningRegion(r),stale=staleRecord(r);return`<article class="card${china?' china-path':''}"><small>${esc(label)}</small><h3>${esc(target)}</h3><div class="path-ip${china?' china-ip':''}">${esc(r?address(r.ip):'等待观测')}</div><span class="badge ${china?'bad':r?.status==='ok'&&!stale?'good':'wait'}">${esc(r?.status==='ok'?geo(r.geo):(r?.error||'未采样'))}</span>${china?`<p class="country-note" data-country-warning="${china}">⚠ ${stale?`上次为${warningRegions[china]}出口，记录已过期，请重新检测。`:`${warningRegions[china]}出口，请检查这条线路。`}</p>`:stale?'<p>记录已过期，请重新检测。</p>':''}<p>${esc(note)}</p><p>${r?esc(time(r.time)):'—'}</p></article>`;}).join('');
   const previous=$('history-route').value;$('history-route').innerHTML='<option value="">全部路径</option>'+state.routes.map(r=>`<option value="${esc(r.id)}">${esc(r.label)}</option>`).join('');$('history-route').value=previous;
   $('incident-list').innerHTML=state.incidents.length?state.incidents.map(i=>`<div>${esc(i.route)} · ${esc(time(i.start))} — ${i.state==='recovered'?'观测到恢复 '+esc(time(i.recoveredAt)):i.state==='gap'?'随后出现采样缺口，恢复时间未知':'尚未观测到恢复'}<small>（多目标同时失败）</small></div>`).join(''):'当前时段没有记录到两个稳定性目标同时失败。';
   const eventNames={start:'开始观测',pause:'暂停',resume:'继续',suspend:'系统休眠',wake:'系统唤醒',quit:'应用退出','legacy-import':'旧版数据导入'};
@@ -79,7 +84,7 @@ async function loadHistory(more=false){
   const seq=++historySeq;const query={hours:Number($('history-range').value),route:$('history-route').value,search:$('search').value,changesOnly:$('changes-only').checked};if(more&&nextPage)query.before=nextPage;
   const data=await act(()=>window.watch.history(query));if(!data||seq!==historySeq)return;
   historyRows=more?[...historyRows,...data.rows]:data.rows;nextPage=data.next;
-  $('history-rows').innerHTML=historyRows.length?historyRows.map(r=>`<tr${chinaRecord(r)?' class="china-row"':''}><td>${esc(time(r.time))}<small>IPv${r.family||'自动'}</small></td><td>${esc(r.label)}<small>${esc(r.source)}</small></td><td class="code">${esc(address(r.ip))}${r.previous_ip?`<small>此前 ${esc(address(r.previous_ip))}</small>`:''}${r.error?`<small>${esc(r.error)}</small>`:''}</td><td>${esc(geo(r.geo))}${chinaHistoryBadge(r)}<small>${esc([r.geo?.isp,r.geo?.asn].filter(Boolean).join(' · '))}</small><small>来源 ${esc(r.geo?.source||'—')}</small></td><td><span class="badge ${r.event==='change'?'bad':r.status==='ok'?'good':'wait'}">${esc(({first:'首次记录',change:'IP 变化',stable:'保持稳定',error:'探测失败'})[r.event]||r.event)}</span></td></tr>`).join(''):'<tr><td colspan="5" class="empty">这个范围还没有记录。</td></tr>';
+  $('history-rows').innerHTML=historyRows.length?historyRows.map(r=>`<tr${warningRegion(r)?' class="china-row"':''}><td>${esc(time(r.time))}<small>IPv${r.family||'自动'}</small></td><td>${esc(r.label)}<small>${esc(r.source)}</small></td><td class="code">${esc(address(r.ip))}${r.previous_ip?`<small>此前 ${esc(address(r.previous_ip))}</small>`:''}${r.error?`<small>${esc(r.error)}</small>`:''}</td><td>${esc(geo(r.geo))}${regionHistoryBadge(r)}<small>${esc([r.geo?.isp,r.geo?.asn].filter(Boolean).join(' · '))}</small><small>来源 ${esc(r.geo?.source||'—')}</small></td><td><span class="badge ${r.event==='change'?'bad':r.status==='ok'?'good':'wait'}">${esc(({first:'首次记录',change:'IP 变化',stable:'保持稳定',error:'探测失败'})[r.event]||r.event)}</span></td></tr>`).join(''):'<tr><td colspan="5" class="empty">这个范围还没有记录。</td></tr>';
   $('history-count').textContent=`已显示 ${historyRows.length} 条记录`;$('more-history').disabled=!nextPage;
 }
 $('hero-route').addEventListener('change',render);$('range').addEventListener('change',()=>act(async()=>{state=await window.watch.snapshot(Number($('range').value));render();}));

diff --git a/scripts/ui-smoke.js b/scripts/ui-smoke.js
@@ -62,13 +62,36 @@ try{
     await page.waitForSelector('#history-rows .china-row [data-country-warning="CN"]');
     assert.match(await page.locator('#history-rows .country-badge').first().textContent(),/当时/);
     await page.locator('[data-page="overview"]').click();
-    for(const geo of [{country:'China',countryCode:'HK'},{country:'China',countryCode:'TW'},{},{country:'United States',countryCode:'US'}]){
+    for(const geo of [{country:'China',countryCode:'TW'},{},{country:'United States',countryCode:'US'}]){
       await refreshFixture(writeCountryFixture(geo));
       assert.ok(await page.locator('#country-alert').isHidden());
       assert.ok(!(await page.locator('#hero-status').textContent()).includes('中国'));
     }
     await refreshFixture(writeCountryFixture({country:'China'}));
     assert.ok(await page.locator('#country-alert').isVisible());
+    await refreshFixture(writeCountryFixture({country:'Hong Kong',countryCode:'HK',city:'演示城市',source:'合成测试'}));
+    assert.match(await page.locator('#country-alert').textContent(),/中国香港（HK）/);
+    assert.match(await page.locator('#hero-status').textContent(),/中国香港出口.*演示数据/);
+    assert.equal(await page.evaluate(()=>document.documentElement.scrollWidth>innerWidth),false);
+    await page.locator('#toast').waitFor({state:'hidden',timeout:7000});
+    await page.screenshot({path:path.join(screenshotDirectory,'hong-kong-warning-demo.png'),fullPage:true});
+    await page.locator('[data-page="paths"]').click();
+    assert.match(await page.locator('#path-cards [data-country-warning="HK"]').textContent(),/中国香港出口/);
+    await page.locator('[data-page="history"]').click();await page.locator('#search').fill('203.0.113.86');
+    await page.waitForSelector('#history-rows [data-country-warning="HK"]');
+    assert.match(await page.locator('#history-rows [data-country-warning="HK"]').first().textContent(),/当时为中国香港出口/);
+    await page.locator('[data-page="overview"]').click();
+    for(const geo of [{country:'China',countryCode:' hk '},{country:'Hong Kong'},{country:'Hong Kong SAR, China'},{country:'香港'},{country:'中国香港'},{country:'中华人民共和国香港特别行政区'}]){
+      await refreshFixture(writeCountryFixture(geo));
+      assert.ok(await page.locator('#country-alert').isVisible());
+      assert.match(await page.locator('#hero-status').textContent(),/中国香港出口/);
+    }
+    await refreshFixture(writeCountryFixture({countryCode:'HK'},{time:Date.now()-3600000}));
+    assert.ok(await page.locator('#country-alert').isHidden());
+    assert.match(await page.locator('#hero-status').textContent(),/中国香港出口.*过期/);
+    await refreshFixture(writeCountryFixture({countryCode:'HK'},{status:'error'}));
+    assert.ok(await page.locator('#country-alert').isHidden());
+    assert.ok(!(await page.locator('#hero-status').textContent()).includes('中国'));
     await refreshFixture(writeCountryFixture({country:'中国',countryCode:'CN'},{time:Date.now()-3600000}));
     assert.ok(await page.locator('#country-alert').isHidden());
     assert.match(await page.locator('#hero-status').textContent(),/中国出口.*过期/);
@@ -78,11 +101,12 @@ try{
     const ipv6Store=new Store(path.join(demoDirectory,'network.sqlite3'));
     try{
       ipv6Store.db.prepare('DELETE FROM observations WHERE source=?').run(fixtureSource);
-      ipv6Store.record({route:'system/echo',label:'系统路由回显',family:6,ip:'2001:db8::86',status:'ok',source:fixtureSource,geo:{countryCode:'CN'}});
+      ipv6Store.record({route:'system/echo',label:'系统路由回显',family:6,ip:'2001:db8::86',status:'ok',source:fixtureSource,geo:{countryCode:'HK'}});
     }finally{ipv6Store.close();}
     await page.locator('#sample').click();
     await page.waitForFunction(()=>document.getElementById('country-alert').textContent.includes('系统路由回显（IPv6）'));
     assert.ok(await page.locator('#country-alert').isVisible());
+    assert.match(await page.locator('#country-alert').textContent(),/中国香港（HK）/);
     assert.ok(!(await page.locator('#hero-status').textContent()).includes('中国'));
   }finally{
     const store=new Store(path.join(demoDirectory,'network.sqlite3'));
@@ -91,5 +115,5 @@ try{
   await page.locator('#sample').click();await page.waitForFunction(()=>document.getElementById('hero-ip').textContent==='203.0.113.42');
   await application.evaluate(({BrowserWindow})=>BrowserWindow.getAllWindows()[0].close());assert.equal(await application.evaluate(({BrowserWindow})=>BrowserWindow.getAllWindows()[0].isVisible()),false);
   await application.evaluate(({app})=>app.emit('activate'));assert.equal(await application.evaluate(({BrowserWindow})=>BrowserWindow.getAllWindows()[0].isVisible()),true);
-  assert.deepEqual(errors,[]);console.log('UI smoke passed: rendering, privacy, history, paths, settings, pause/resume, close-to-tray, restore, China warnings, non-CN/unknown/error exclusions and stale labels. Demo-only screenshots saved.');
+  assert.deepEqual(errors,[]);console.log('UI smoke passed: rendering, privacy, history, paths, settings, pause/resume, close-to-tray, restore, CN/HK warnings and names, other-region/unknown/error exclusions, IPv6 and stale labels. Demo-only screenshots saved.');
 }finally{await application.close();}
